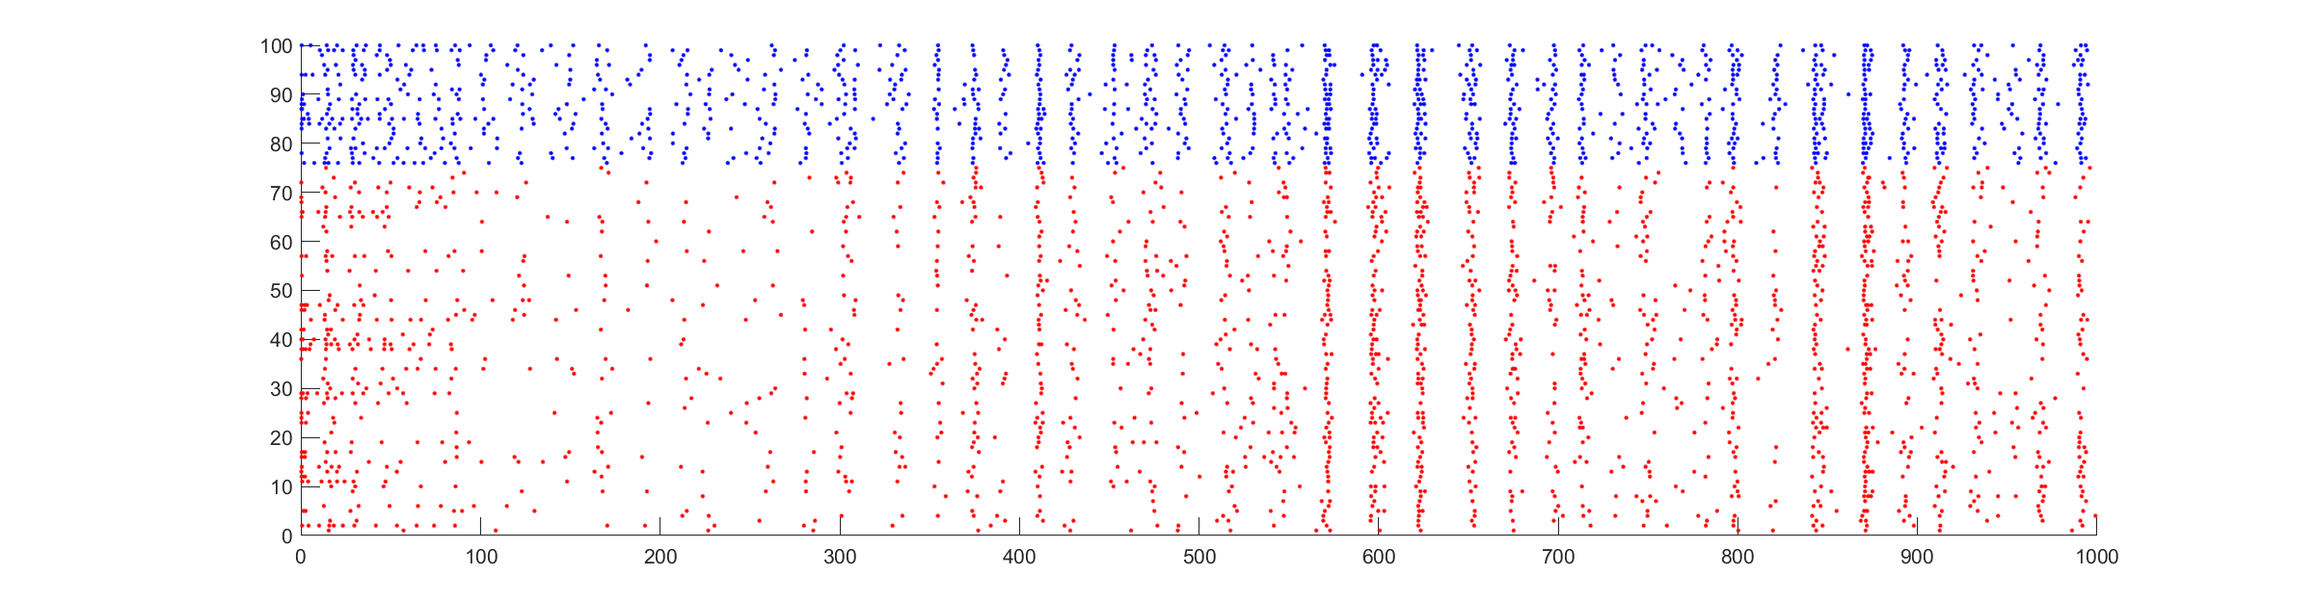
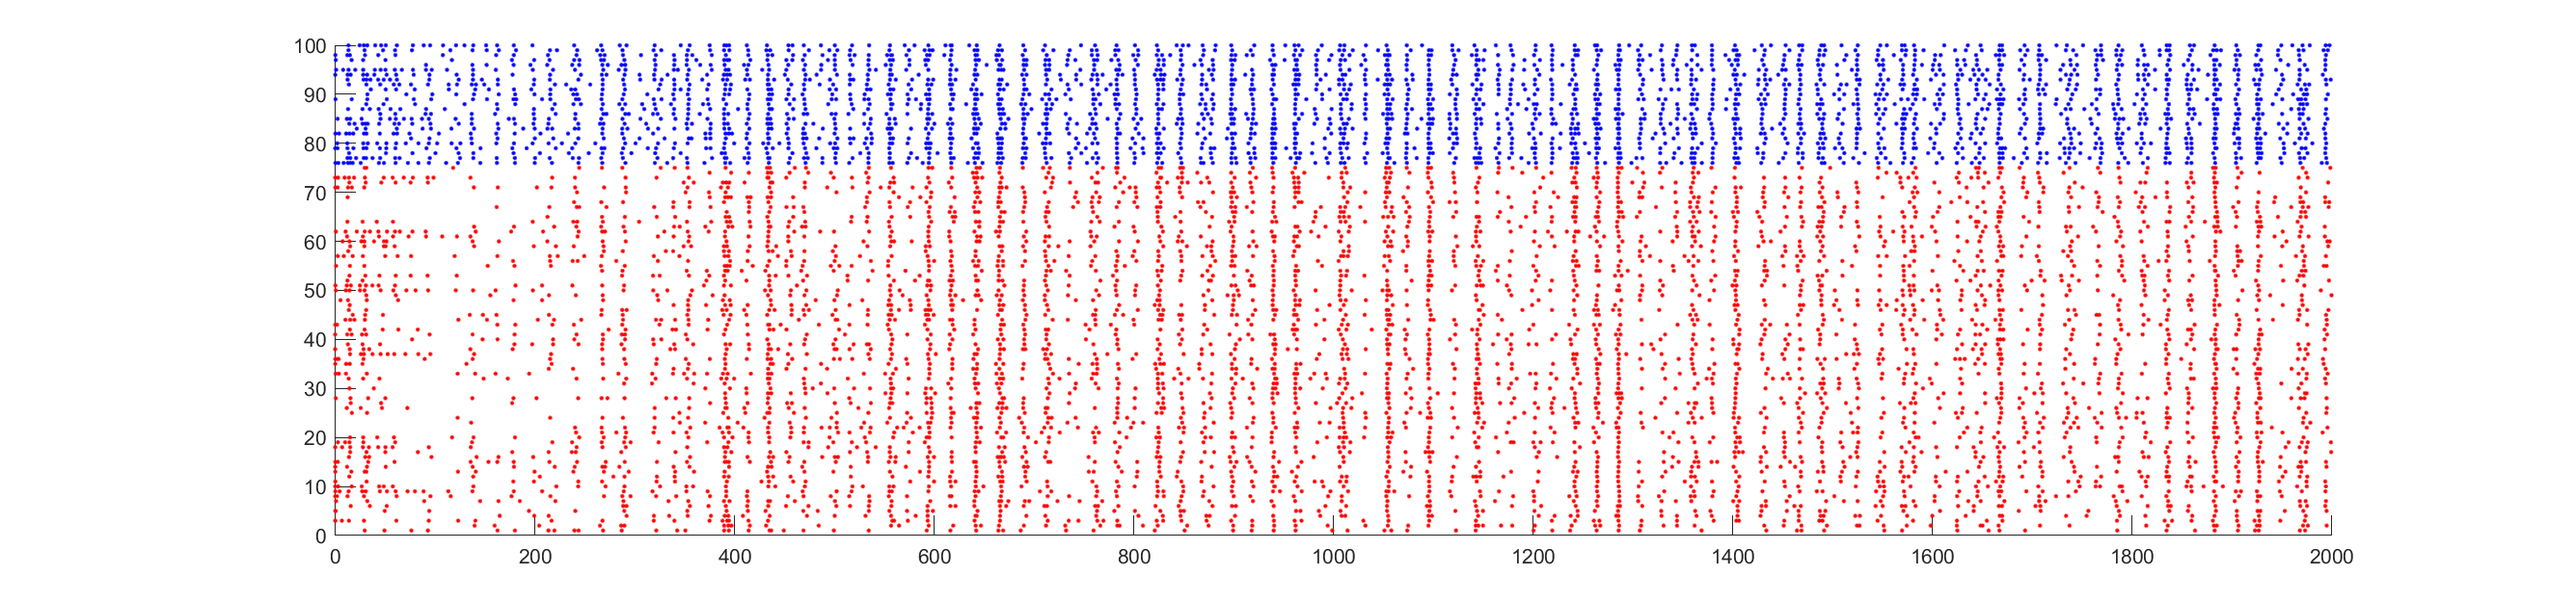
Tuning parameters

diff --git a/main.m b/main.m
@@ -108,10 +108,10 @@ param4.p_ee     = 0.15;
 param4.p_ie     = 0.5;
 param4.p_ei     = 0.5;
 param4.p_ii     = 0.4;
-param4.s_ee     = 5*5;
-param4.s_ie     = 2*5;
-param4.s_ei     = 30;
-param4.s_ii     = 30;
+param4.s_ee     = 5*4.5;
+param4.s_ie     = 2*4.5;
+param4.s_ei     = 25;
+param4.s_ii     = 25;
 param4.tau_r    = 2.5;
 param4.M        = 100;
 param4.Mr       = 66;
@@ -145,10 +145,10 @@ param5.p_ee     = 0.15;
 param5.p_ie     = 0.5;
 param5.p_ei     = 0.5;
 param5.p_ii     = 0.4;
-param5.s_ee     = 5*5;
-param5.s_ie     = 2*5;
-param5.s_ei     = 30;
-param5.s_ii     = 30;
+param5.s_ee     = 5*4.5;
+param5.s_ie     = 2*4.5;
+param5.s_ei     = 25;
+param5.s_ii     = 25;
 param5.tau_r    = 2.5;
 param5.M        = 100;
 param5.Mr       = 66;
@@ -157,7 +157,7 @@ param5.lambda_i = 1/7;
 param5.tau_ee   = 2; 
 param5.tau_ie   = 1.2; 
 param5.tau_i    = 4.5;
-duration_time   = 1000;
+duration_time   = 2000;
 
 % random inilialization
 % s = zeros(4,param5.ne+param5.ni);
@@ -171,7 +171,7 @@ run_time5 = etime(end_time5, start_time5);
 
 firing_rate5 = firing_rate(spikes5, param5.ne, param5.ni);
 scatterplot(spikes5, param5.ne, param5.ni,'scatter-n=100-t=1000-reg')
-correlation(spikes5,param5.ne, param5.ni,'correlation-n=100-t=1000-reg')
+%correlation(spikes5,param5.ne, param5.ni,'correlation-n=100-t=1000-reg')
 firing_rate5
 
 %% Full model: synchronized & small-size & random initialization
@@ -182,10 +182,10 @@ param6.p_ee     = 0.15;
 param6.p_ie     = 0.5;
 param6.p_ei     = 0.5;
 param6.p_ii     = 0.4;
-param6.s_ee     = 5*5;
-param6.s_ie     = 2*5;
-param6.s_ei     = 30;
-param6.s_ii     = 30;
+param6.s_ee     = 5*4.5;
+param6.s_ie     = 2*4.5;
+param6.s_ei     = 25;
+param6.s_ii     = 25;
 param6.tau_r    = 2.5;
 param6.M        = 100;
 param6.Mr       = 66;
@@ -194,7 +194,7 @@ param6.lambda_i = 1/7;
 param6.tau_ee   = 1.3; 
 param6.tau_ie   = 0.95; 
 param6.tau_i    = 4.5;
-duration_time   = 1000;
+duration_time   = 2000;
 
 %random inilialization
 s = zeros(4,param6.ne+param6.ni);
@@ -208,5 +208,5 @@ run_time6 = etime(end_time6, start_time6);
 
 firing_rate6 = firing_rate(spikes6, param6.ne, param6.ni);
 scatterplot(spikes6, param6.ne, param6.ni,'scatter-n=100-t=1000-syn')
-correlation(spikes6,param6.ne, param6.ni,'correlation-n=100-t=1000-syn')
+%correlation(spikes6,param6.ne, param6.ni,'correlation-n=100-t=1000-syn')
 firing_rate6
